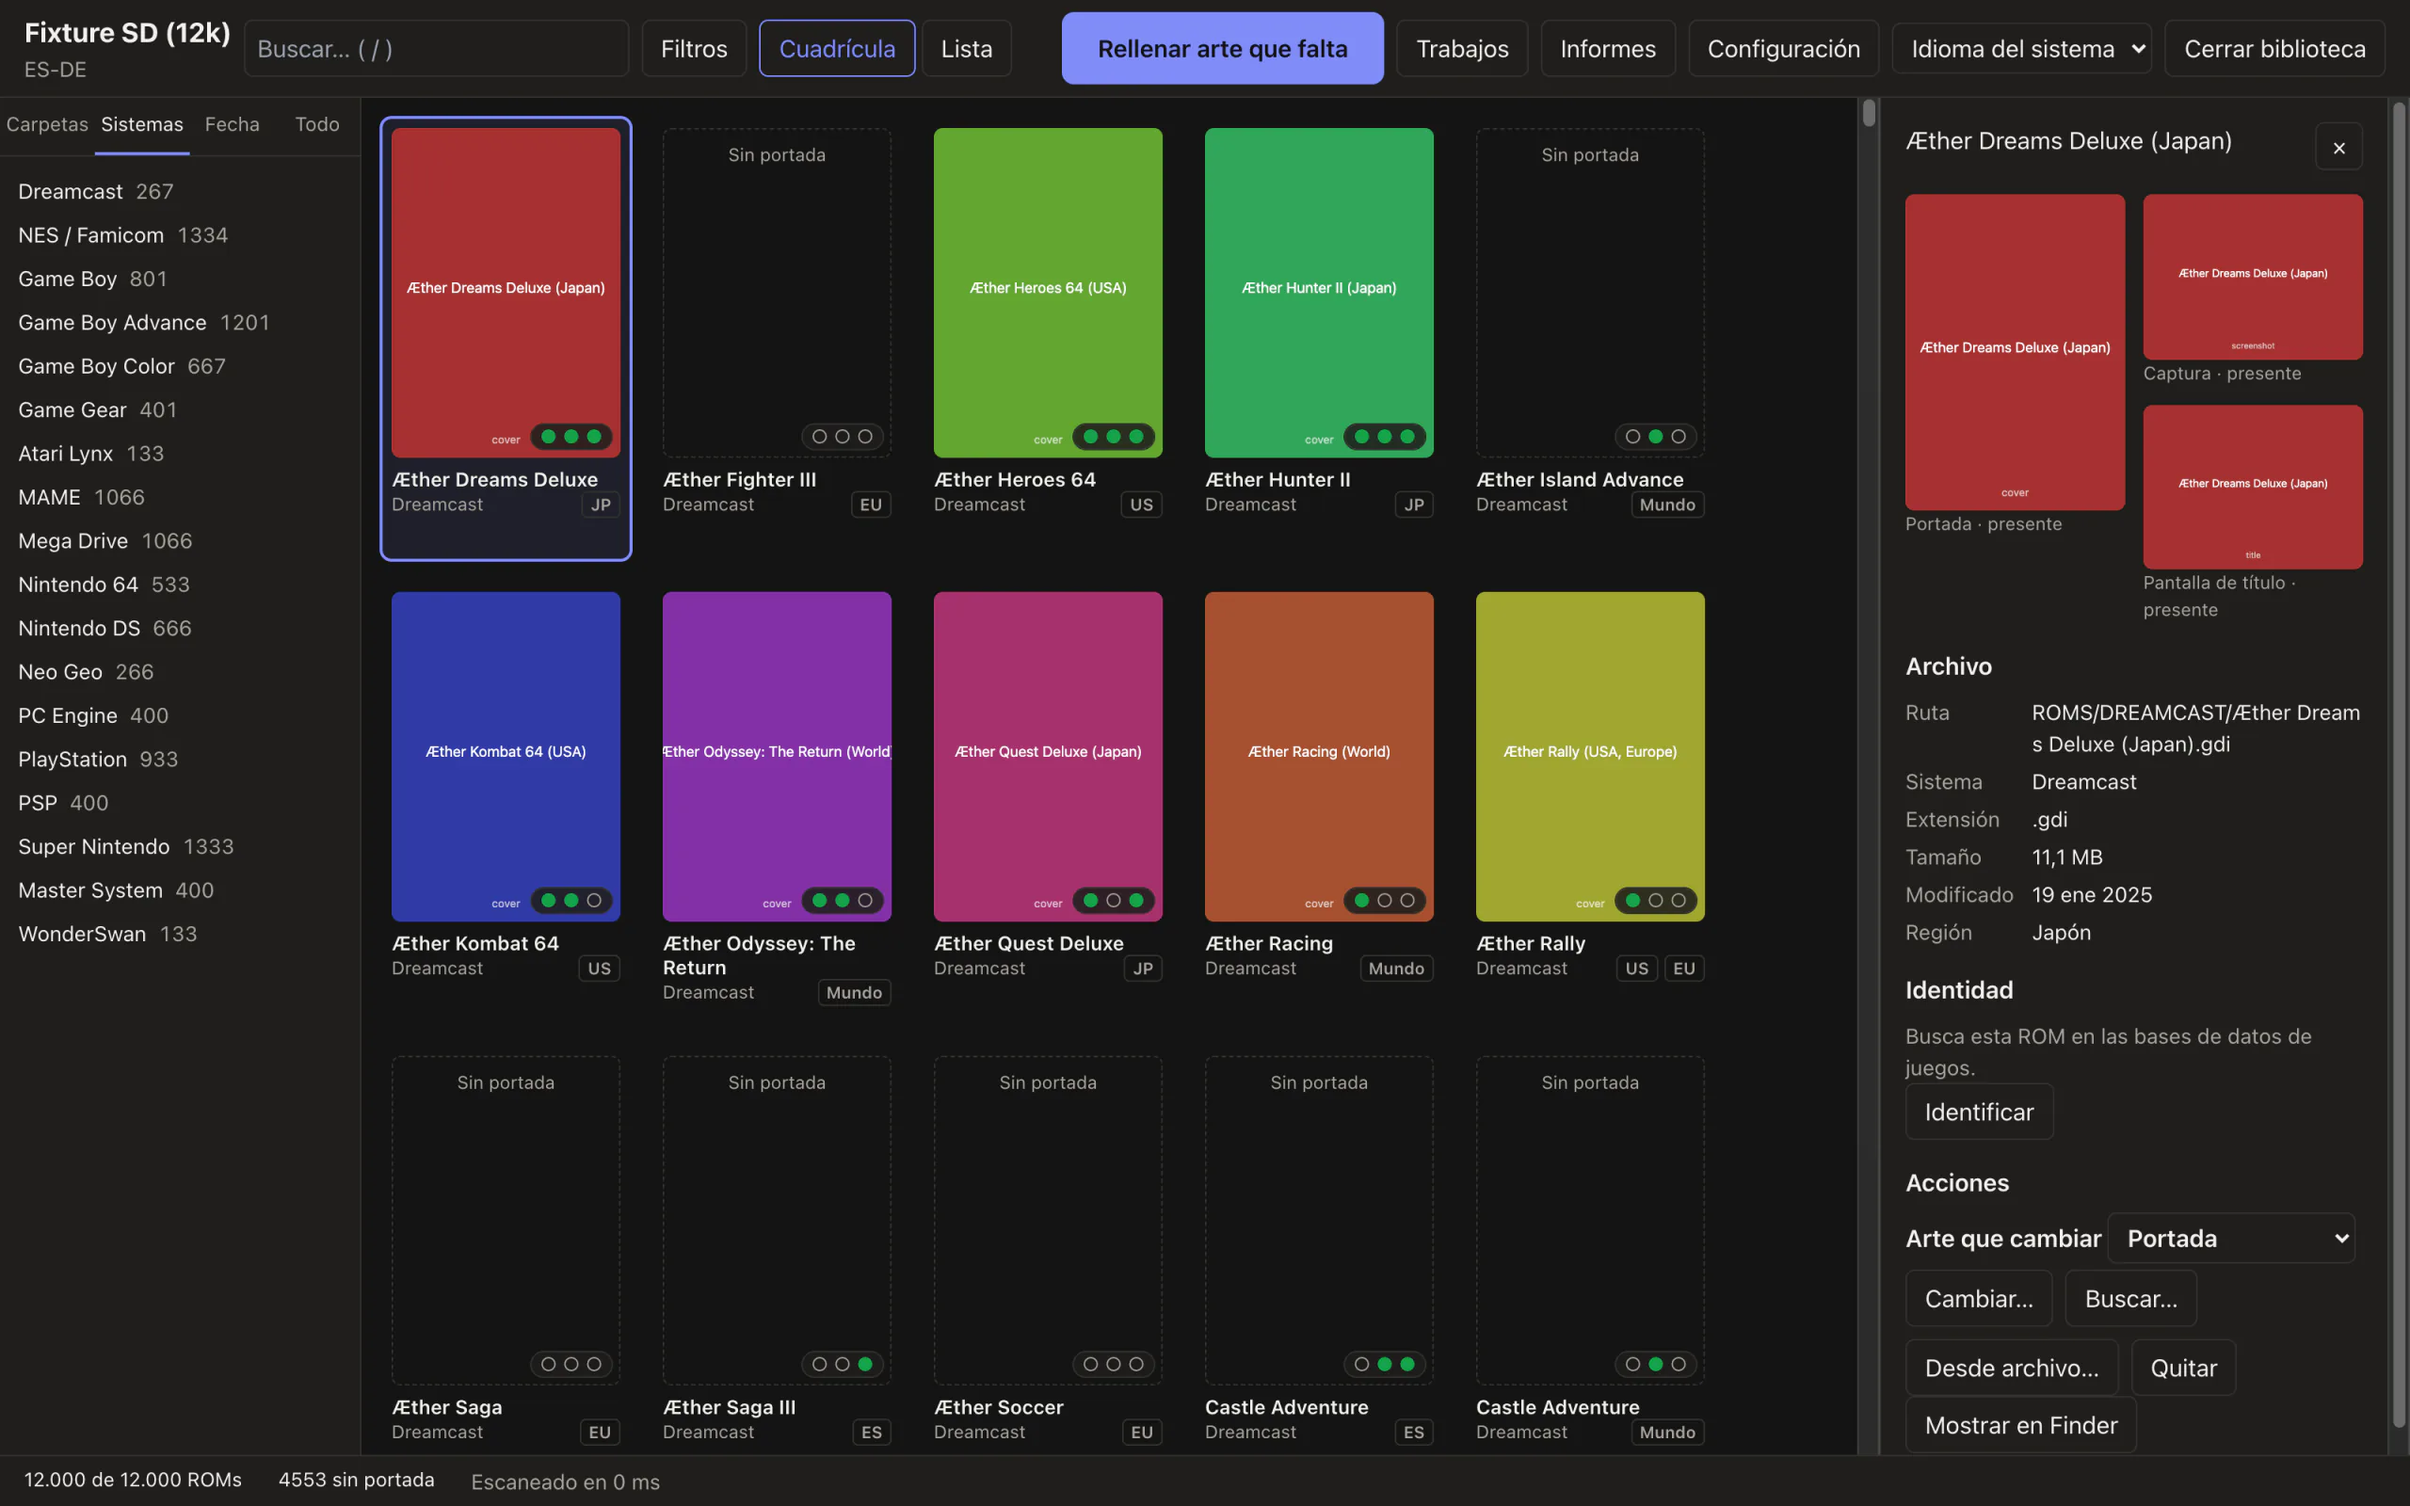
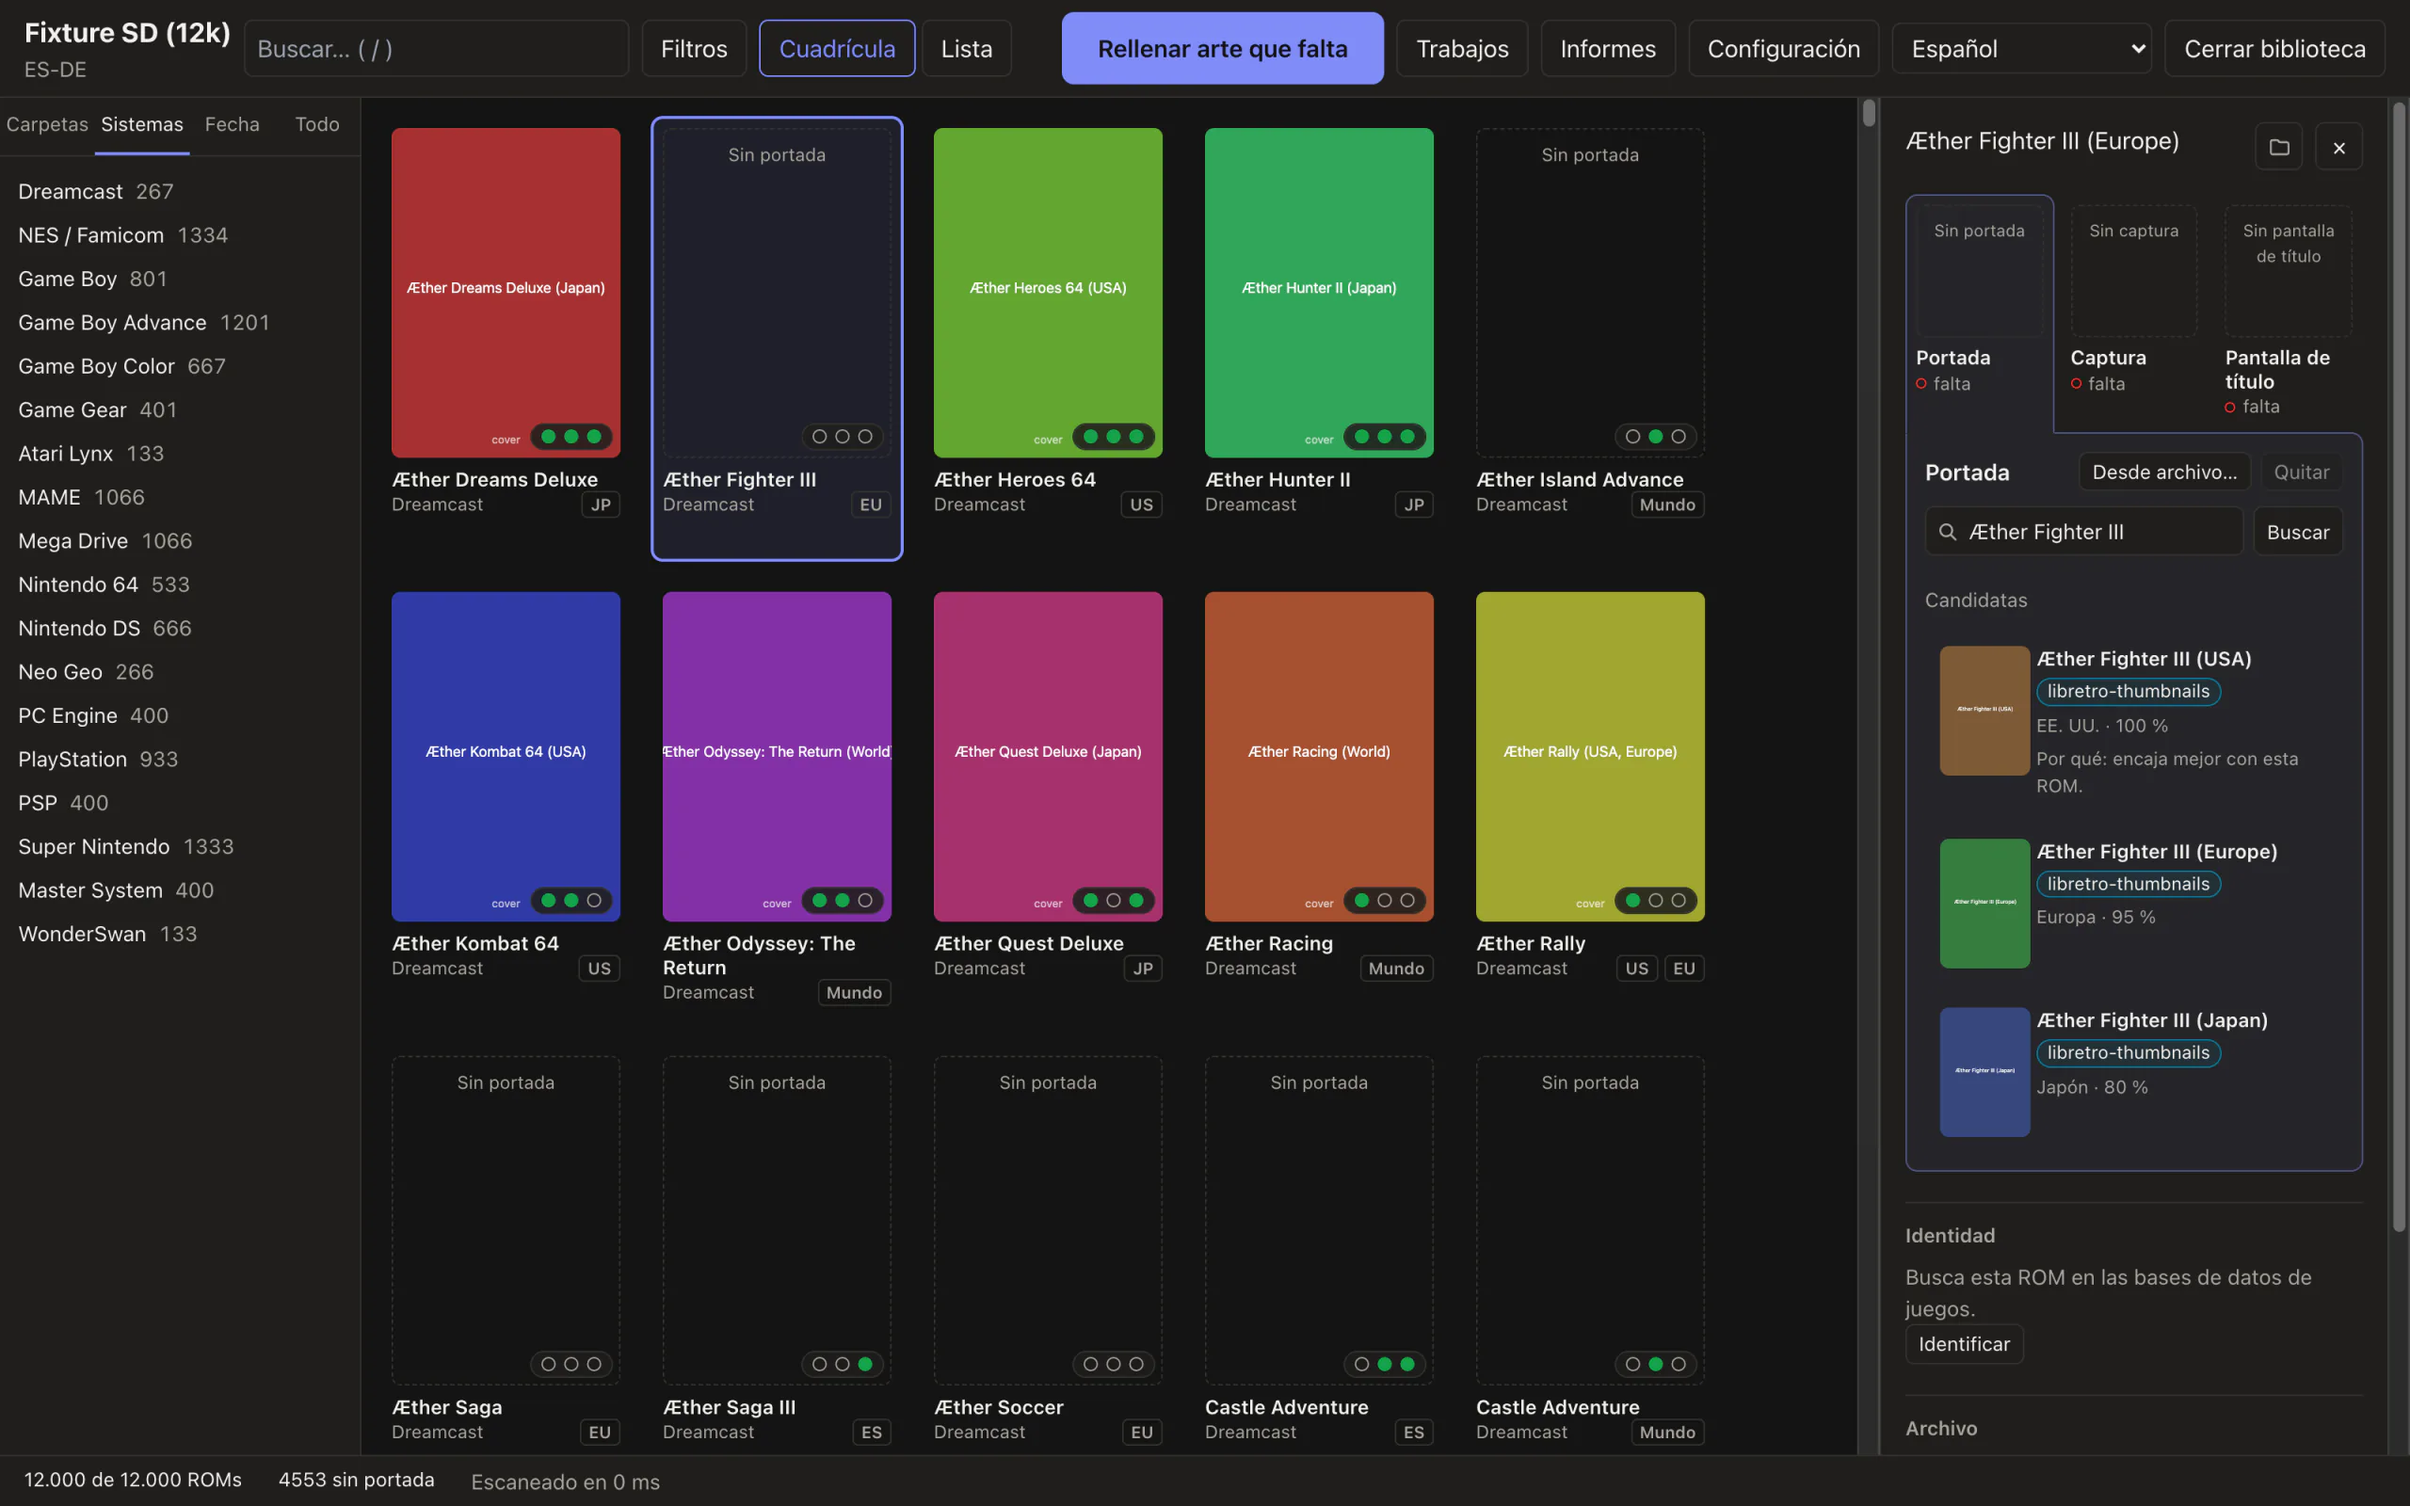
docs(site): show the reworked detail drawer in the landing screenshots

Changed region(s): [[0.7812, 0.0312, 1.0, 0.9688], [0.1562, 0.0625, 0.375, 0.375], [0.9688, 0.8125, 1.0, 0.9375]]

diff --git a/site/index.html b/site/index.html
@@ -182,7 +182,7 @@
 <figure>
 <div class="shot"><picture>
 <source data-dark media="(prefers-color-scheme: dark)" type="image/webp" srcset="assets/shots/es/detail-dark@1x.webp 1280w, assets/shots/es/detail-dark.webp 2560w" sizes="(min-width: 1240px) 790px, (min-width: 900px) calc(100vw - 448px), calc(100vw - 32px)">
-<img src="assets/shots/es/detail-light@1x.webp" srcset="assets/shots/es/detail-light@1x.webp 1280w, assets/shots/es/detail-light.webp 2560w" sizes="(min-width: 1240px) 790px, (min-width: 900px) calc(100vw - 448px), calc(100vw - 32px)" width="1280" height="800" loading="lazy" decoding="async" alt="La ficha de un juego junto a la cuadrícula: su portada, captura y pantalla de título, los datos del archivo y los botones Cambiar, Buscar, Desde archivo y Quitar.">
+<img src="assets/shots/es/detail-light@1x.webp" srcset="assets/shots/es/detail-light@1x.webp 1280w, assets/shots/es/detail-light.webp 2560w" sizes="(min-width: 1240px) 790px, (min-width: 900px) calc(100vw - 448px), calc(100vw - 32px)" width="1280" height="800" loading="lazy" decoding="async" alt="La ficha de un juego junto a la cuadrícula: le falta la portada y las candidatas ya están cargadas debajo, con un buscador encima y los botones Desde archivo y Quitar.">
 </picture></div>
 </figure>
 </li>

diff --git a/site/en/index.html b/site/en/index.html
@@ -182,7 +182,7 @@
 <figure>
 <div class="shot"><picture>
 <source data-dark media="(prefers-color-scheme: dark)" type="image/webp" srcset="../assets/shots/en/detail-dark@1x.webp 1280w, ../assets/shots/en/detail-dark.webp 2560w" sizes="(min-width: 1240px) 790px, (min-width: 900px) calc(100vw - 448px), calc(100vw - 32px)">
-<img src="../assets/shots/en/detail-light@1x.webp" srcset="../assets/shots/en/detail-light@1x.webp 1280w, ../assets/shots/en/detail-light.webp 2560w" sizes="(min-width: 1240px) 790px, (min-width: 900px) calc(100vw - 448px), calc(100vw - 32px)" width="1280" height="800" loading="lazy" decoding="async" alt="A game's panel beside the grid: its cover, screenshot and title screen, the file details, and the Change, Search, From file and Remove buttons.">
+<img src="../assets/shots/en/detail-light@1x.webp" srcset="../assets/shots/en/detail-light@1x.webp 1280w, ../assets/shots/en/detail-light.webp 2560w" sizes="(min-width: 1240px) 790px, (min-width: 900px) calc(100vw - 448px), calc(100vw - 32px)" width="1280" height="800" loading="lazy" decoding="async" alt="A game's panel beside the grid: its cover is missing and the candidates are already loaded below, with a search box above them and the From file and Remove buttons.">
 </picture></div>
 </figure>
 </li>
